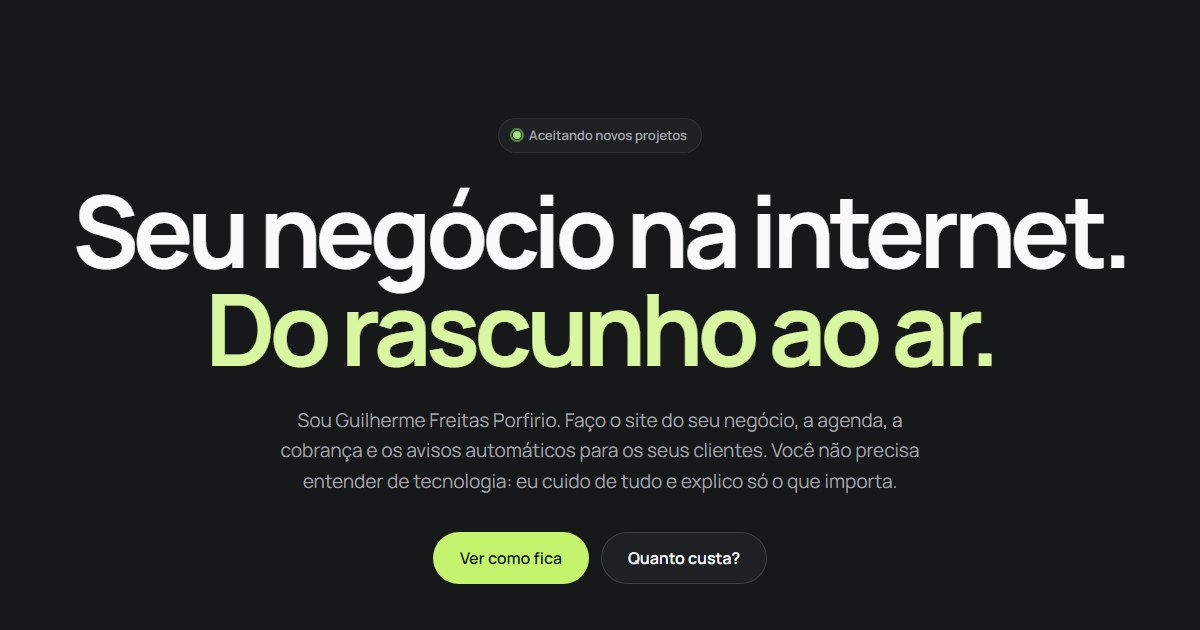
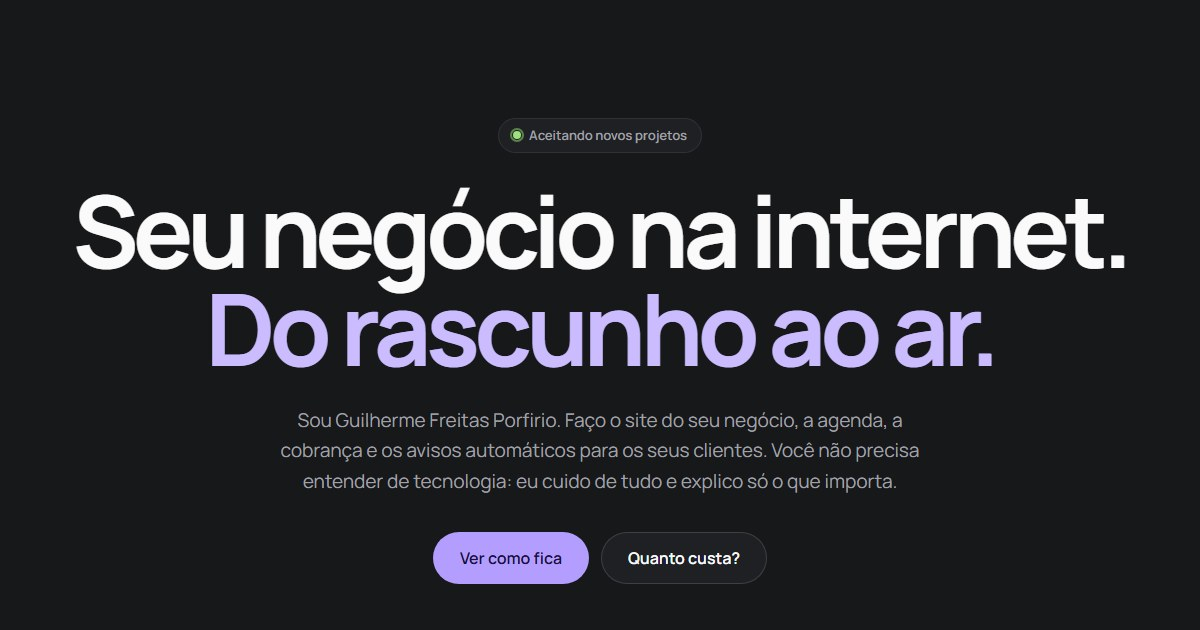
style: switch accent palette from lime to purple

Changed region(s): [[0.1542, 0.4524, 0.8325, 0.6032], [0.3392, 0.8444, 0.4933, 0.9349]]

diff --git a/styles.css b/styles.css
@@ -9,10 +9,10 @@
   --ink: #fafafa;
   --ink-muted: #a1a1aa;
   --ink-subtle: #71717a;
-  --accent: #c6f36d;
-  --accent-hover: #b6e65a;
-  --accent-ink: #15200a;
-  --accent-text: #d8f7a0;
+  --accent: #b39dff;
+  --accent-hover: #c3b1ff;
+  --accent-ink: #1a1040;
+  --accent-text: #cbbcff;
   --info: #8fb4ff;
   --warn: #f5c46b;
   --ok: #9be37a;
@@ -39,10 +39,10 @@
   --ink: #1f2023;
   --ink-muted: #4f5157;
   --ink-subtle: #6b6d73;
-  --accent: #b9ec5c;
-  --accent-hover: #a8de48;
-  --accent-ink: #15200a;
-  --accent-text: #3d6b12;
+  --accent: #7c5cf0;
+  --accent-hover: #6d4ce0;
+  --accent-ink: #ffffff;
+  --accent-text: #5b3fd1;
   --info: #1c4fb5;
   --warn: #7a4f08;
   --ok: #146432;
